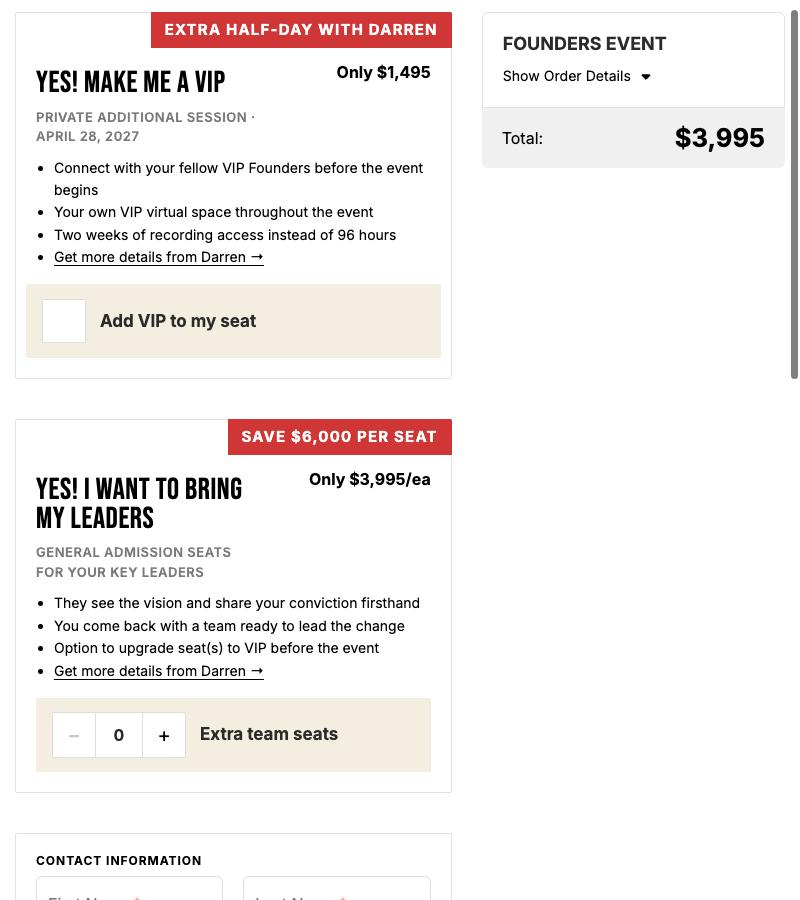
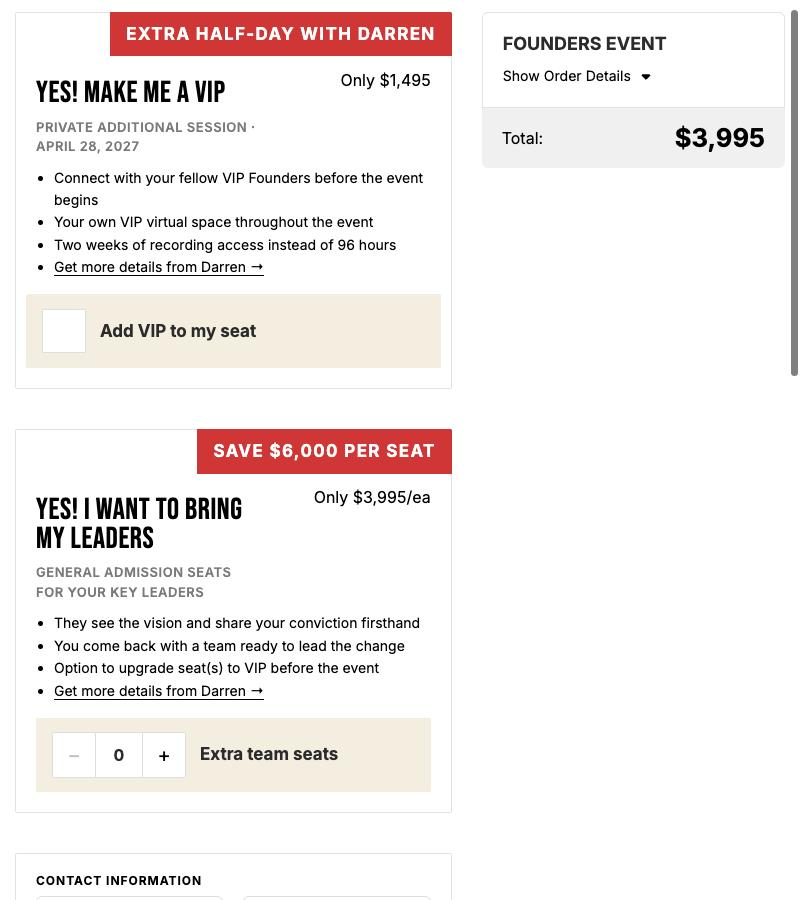
Founders carts queue: larger corner tab, regular-weight price

diff --git a/pre-print-demo-assets/spiffy-founders-pending-changes.md b/pre-print-demo-assets/spiffy-founders-pending-changes.md
@@ -32,11 +32,12 @@ before writing the code. Asked her not to add her own hiding code.
    inside `tcebAfterMount` (wait for Spiffy's app to settle).
 
 ## VIP / Team boxes (all four carts)
-8. **Bigger red callout, still a corner tab** (user: NOT full width). Tab 15px, letter-spacing .08em,
-   padding 9px 14px (was 11px / 7px 12px), so it's 36px tall; box top padding 56px so the headline clears it
-   (check the 600px rule, which sets 40px). Price block `.tceb-price` top: -7px (was 20px) so "Only ..."
-   sits 14px under the tab, the same gap as before. Mock: `tce-mocks/founders-boxes-corner-tab.jpg` (live cart with
-   the CSS injected, not saved).
+8. **Bigger red callout, still a corner tab** (user: NOT full width; benefit + savings must be the most
+   eye-catching thing). Tab 17px, letter-spacing .08em, padding 12px 16px (was 11px / 7px 12px), so it's
+   44px tall; box top padding 66px so the headline clears it (check the 600px rule, which sets 40px).
+   Price `.tceb-price` top: -9px (was 20px) so "Only ..." sits 14px under the tab as before, and
+   `.tceb-price b` font-weight 400 (was 700). Mock: `tce-mocks/founders-boxes-corner-tab.jpg` (live cart
+   with the CSS injected, not saved).
 9. **VIP row spacing = Team row.** Zero the inner margins (`.form-group` 10px, `.custom-control` 5px) in
    `.tceb-vip .layout-checkboxes1`, give it padding 15px 16px and margin-bottom 20px. Measured with the
    CSS injected: VIP row 74px tall with 21px below, same as Team.
